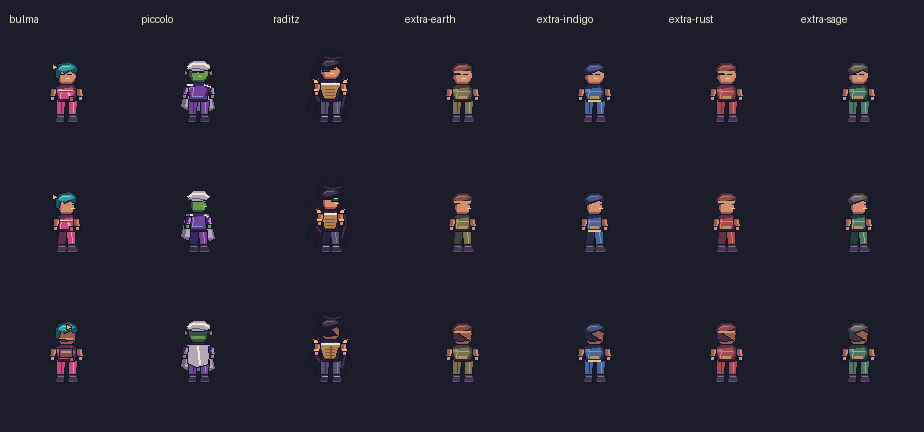
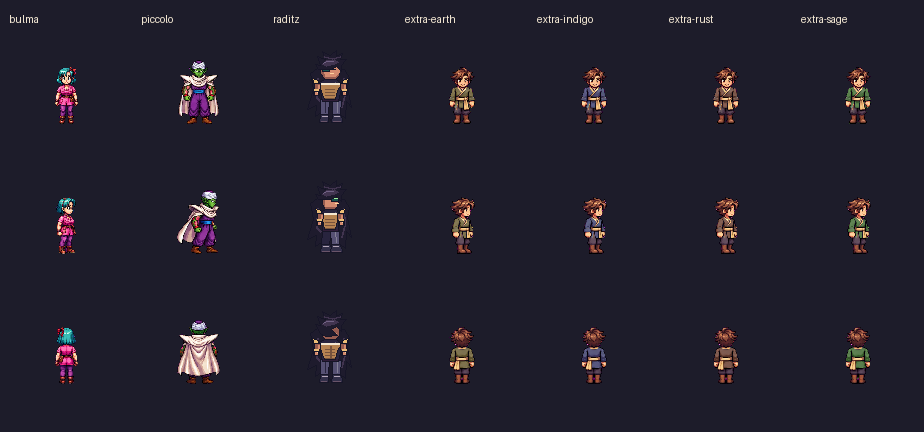
Redraw opening NPCs to match the main fighter art

diff --git a/campaign-cast.js b/campaign-cast.js
@@ -80,6 +80,9 @@
   const byId=new Map(roster.map(character=>[character.id,character]));
   const allowedNpc=Object.freeze(["idle","walk","talk"]);
   const allowedEncounter=Object.freeze(Object.keys(layout));
+  const detailedSource="assets/campaign-cast/npc-atlas.png";
+  const detailedGrid=Object.freeze({columns:8,rows:24});
+  const detailedIds=artOrder.filter(id=>id!=="raditz");
   const sprites=new Map(artOrder.map((id,index)=>[id,Object.freeze({
     id,src:source,cell,grid,scale:.55,block:index*block+(index>2?40:0),
     role:id==="raditz"?"encounter":"npc",
@@ -87,7 +90,11 @@
   })]));
 
   function getCharacter(id){return byId.get(id)||null}
-  function getSprite(id){return sprites.get(id)||null}
+  function getSprite(id){
+    const sprite=sprites.get(id);
+    const index=detailedIds.indexOf(id);
+    return index<0?sprite||null:{...sprite,src:detailedSource,grid:detailedGrid,block:index*block};
+  }
 
   function resolveFrame(sprite,direction,action,elapsedMs){
     if(!sprite||!sprite.clips.includes(action))return null;
@@ -121,7 +128,7 @@
     const leftHand=direction==="left"?frontHand:left;
     const rightHand=direction==="left"?[63-left[0],left[1]]:right;
     return {
-      rect:[index%grid.columns*cell[0],Math.floor(index/grid.columns)*cell[1],...cell],
+      rect:[index%sprite.grid.columns*cell[0],Math.floor(index/sprite.grid.columns)*cell[1],...cell],
       feet:[32,88],center,leftHand,rightHand,
       muzzle:frontHand,
       flip:false,durationMs:clip.durationMs,loop:clip.loop

diff --git a/campaign.html b/campaign.html
@@ -7,7 +7,7 @@
   <link rel="stylesheet" href="campaign/story.css">
   <script src="area-loader.js" defer></script>
   <script src="assets/hero-animation/manifest.js" defer></script>
-  <script src="campaign-cast.js" defer></script>
+  <script src="campaign-cast.js?v=detailed-npcs-1" defer></script>
   <script src="campaign/story.js" defer></script>
 </head>
 <body>

diff --git a/scripts/build-campaign-cast.py b/scripts/build-campaign-cast.py
@@ -255,7 +255,7 @@ def render(id_: str, direction: str, action: str, frame: int) -> Image.Image:
 def main() -> None:
     cmd = """const c=require('./campaign-cast.js');
     console.log(JSON.stringify({directions:c.directions,layout:c.layout,cell:c.cell,grid:c.grid,
-      sprites:c.artOrder.map(c.getSprite)}));"""
+      sprites:c.artOrder.map((id,index)=>{const s=c.getSprite(id);return {...s,draftBlock:index*c.block+(index>2?40:0)}})}));"""
     spec = json.loads(subprocess.check_output(["node", "-e", cmd], cwd=ROOT, text=True))
     width,height=spec["cell"]
     columns,rows=spec["grid"]["columns"],spec["grid"]["rows"]
@@ -276,10 +276,16 @@ def main() -> None:
                     pixels=frame.tobytes()
                     assert pixels!=previous,label
                     previous=pixels
-                    slot=entry["block"]+clip["start"]+d*clip["count"]+step
+                    slot=entry["draftBlock"]+clip["start"]+d*clip["count"]+step
                     sheet.alpha_composite(frame,(slot%columns*width,slot//columns*height))
                     if action=="idle" and step==0 and direction in ("down","right","up"):
                         row=("down","right","up").index(direction)
+                        if entry["src"].endswith("npc-atlas.png"):
+                            detailed = Image.open(ROOT / entry["src"]).convert("RGBA")
+                            detailed_slot = entry["block"]+clip["start"]+d*clip["count"]+step
+                            detail_cols = entry["grid"]["columns"]
+                            left,top = (detailed_slot%detail_cols)*width,(detailed_slot//detail_cols)*height
+                            frame = detailed.crop((left,top,left+width,top+height))
                         preview.paste(frame,(actor*132+34,36+row*130),frame)
         preview_ink.text((actor*132+9,13),entry["id"],fill="#f9edd8")
     sheet.save(DEST/"opening-atlas.png",optimize=True)

diff --git a/docs/campaign-cast.md b/docs/campaign-cast.md
@@ -4,7 +4,7 @@ The cast manifest holds stable IDs for 44 named characters across the Earth open
 
 Four original civilian appearances support incidental NPCs. `makeExtra(areaSeed, index)` returns a stable ID, name, role, appearance, and facing. Area files own coordinates, dialogue, and encounter setup.
 
-The atlas contains transparent 64 × 96 cells. Load `campaign-cast.js`, use `KFCampaignCast.getSprite(id)`, and call `resolveFrame(sprite, direction, action, elapsedMs)` to get the crop rectangle and foot, center, hand, and effect attachment points. The source rectangles already encode facing. The preview sheet shows the available idle designs.
+The atlases use transparent 64 × 96 cells. Bulma, Piccolo, and the civilian variants use the illustrated NPC atlas. The atlas generator still builds the original Raditz encounter sheet and refreshes the combined preview. Load `campaign-cast.js`, use `KFCampaignCast.getSprite(id)`, and call `resolveFrame(sprite, direction, action, elapsedMs)` to get the crop rectangle and foot, center, hand, and effect attachment points. The source rectangles already encode facing. The preview sheet shows the available idle designs.
 
 ## Art workflow
 
